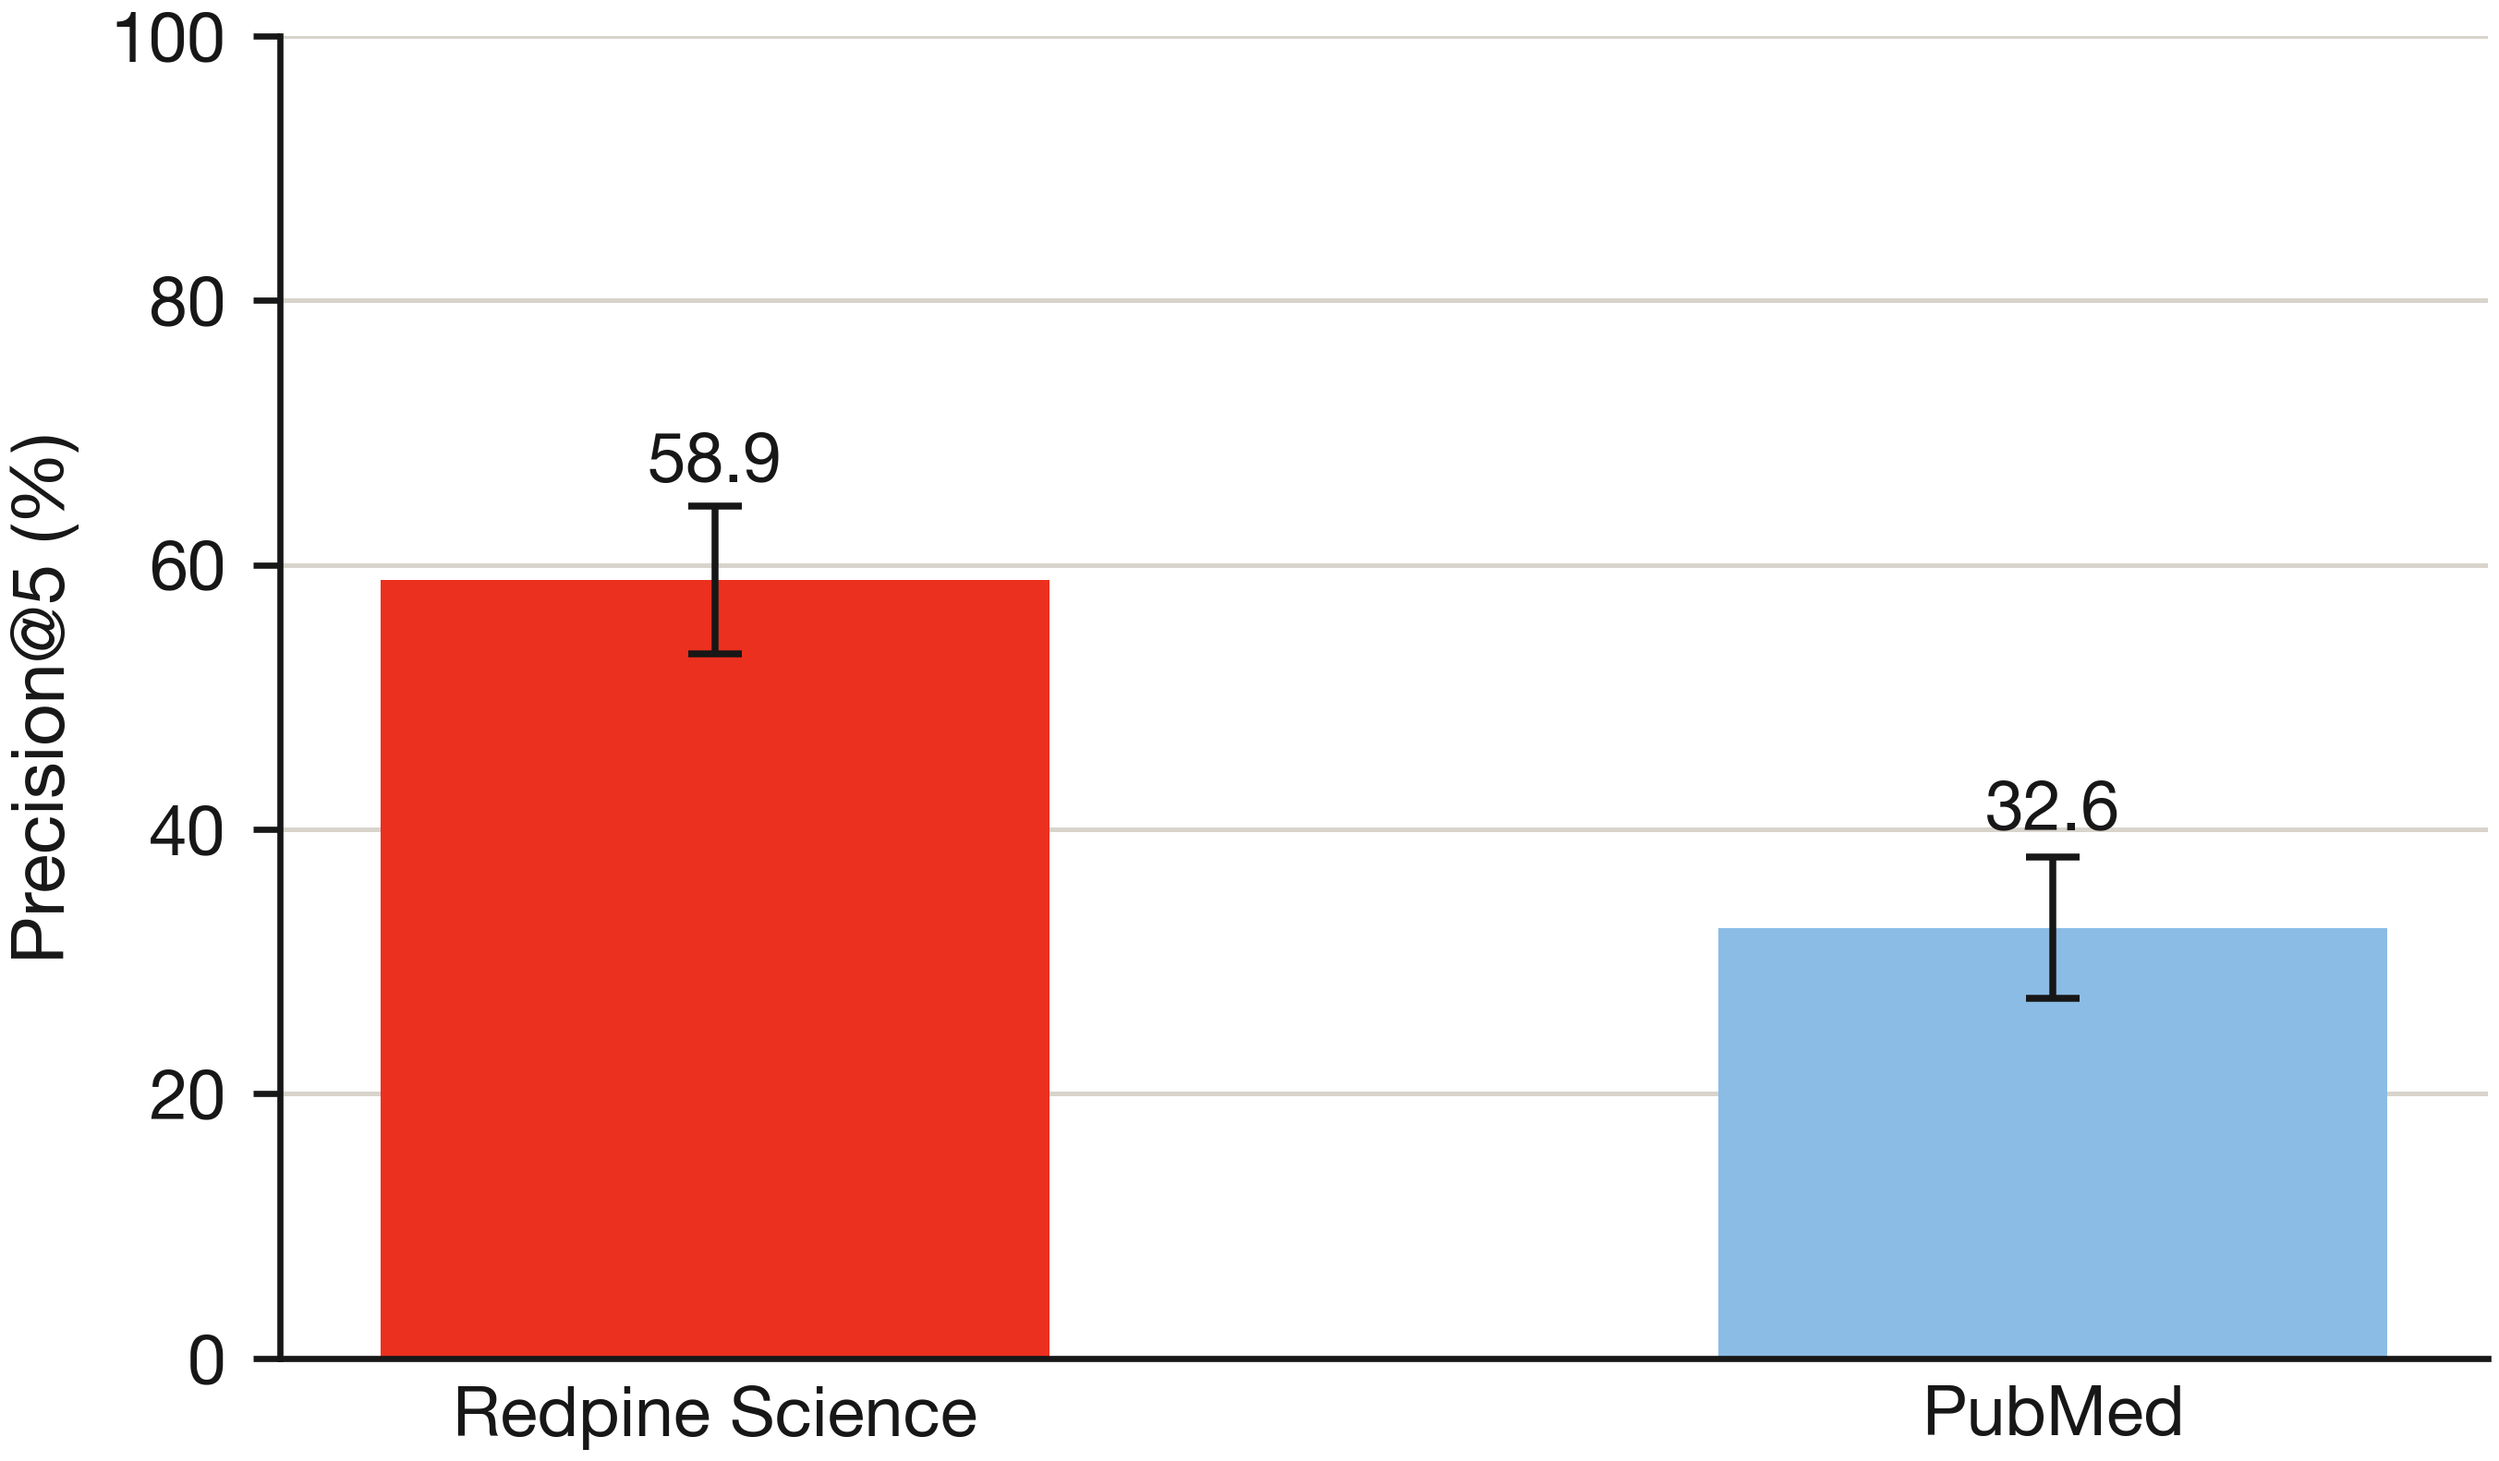
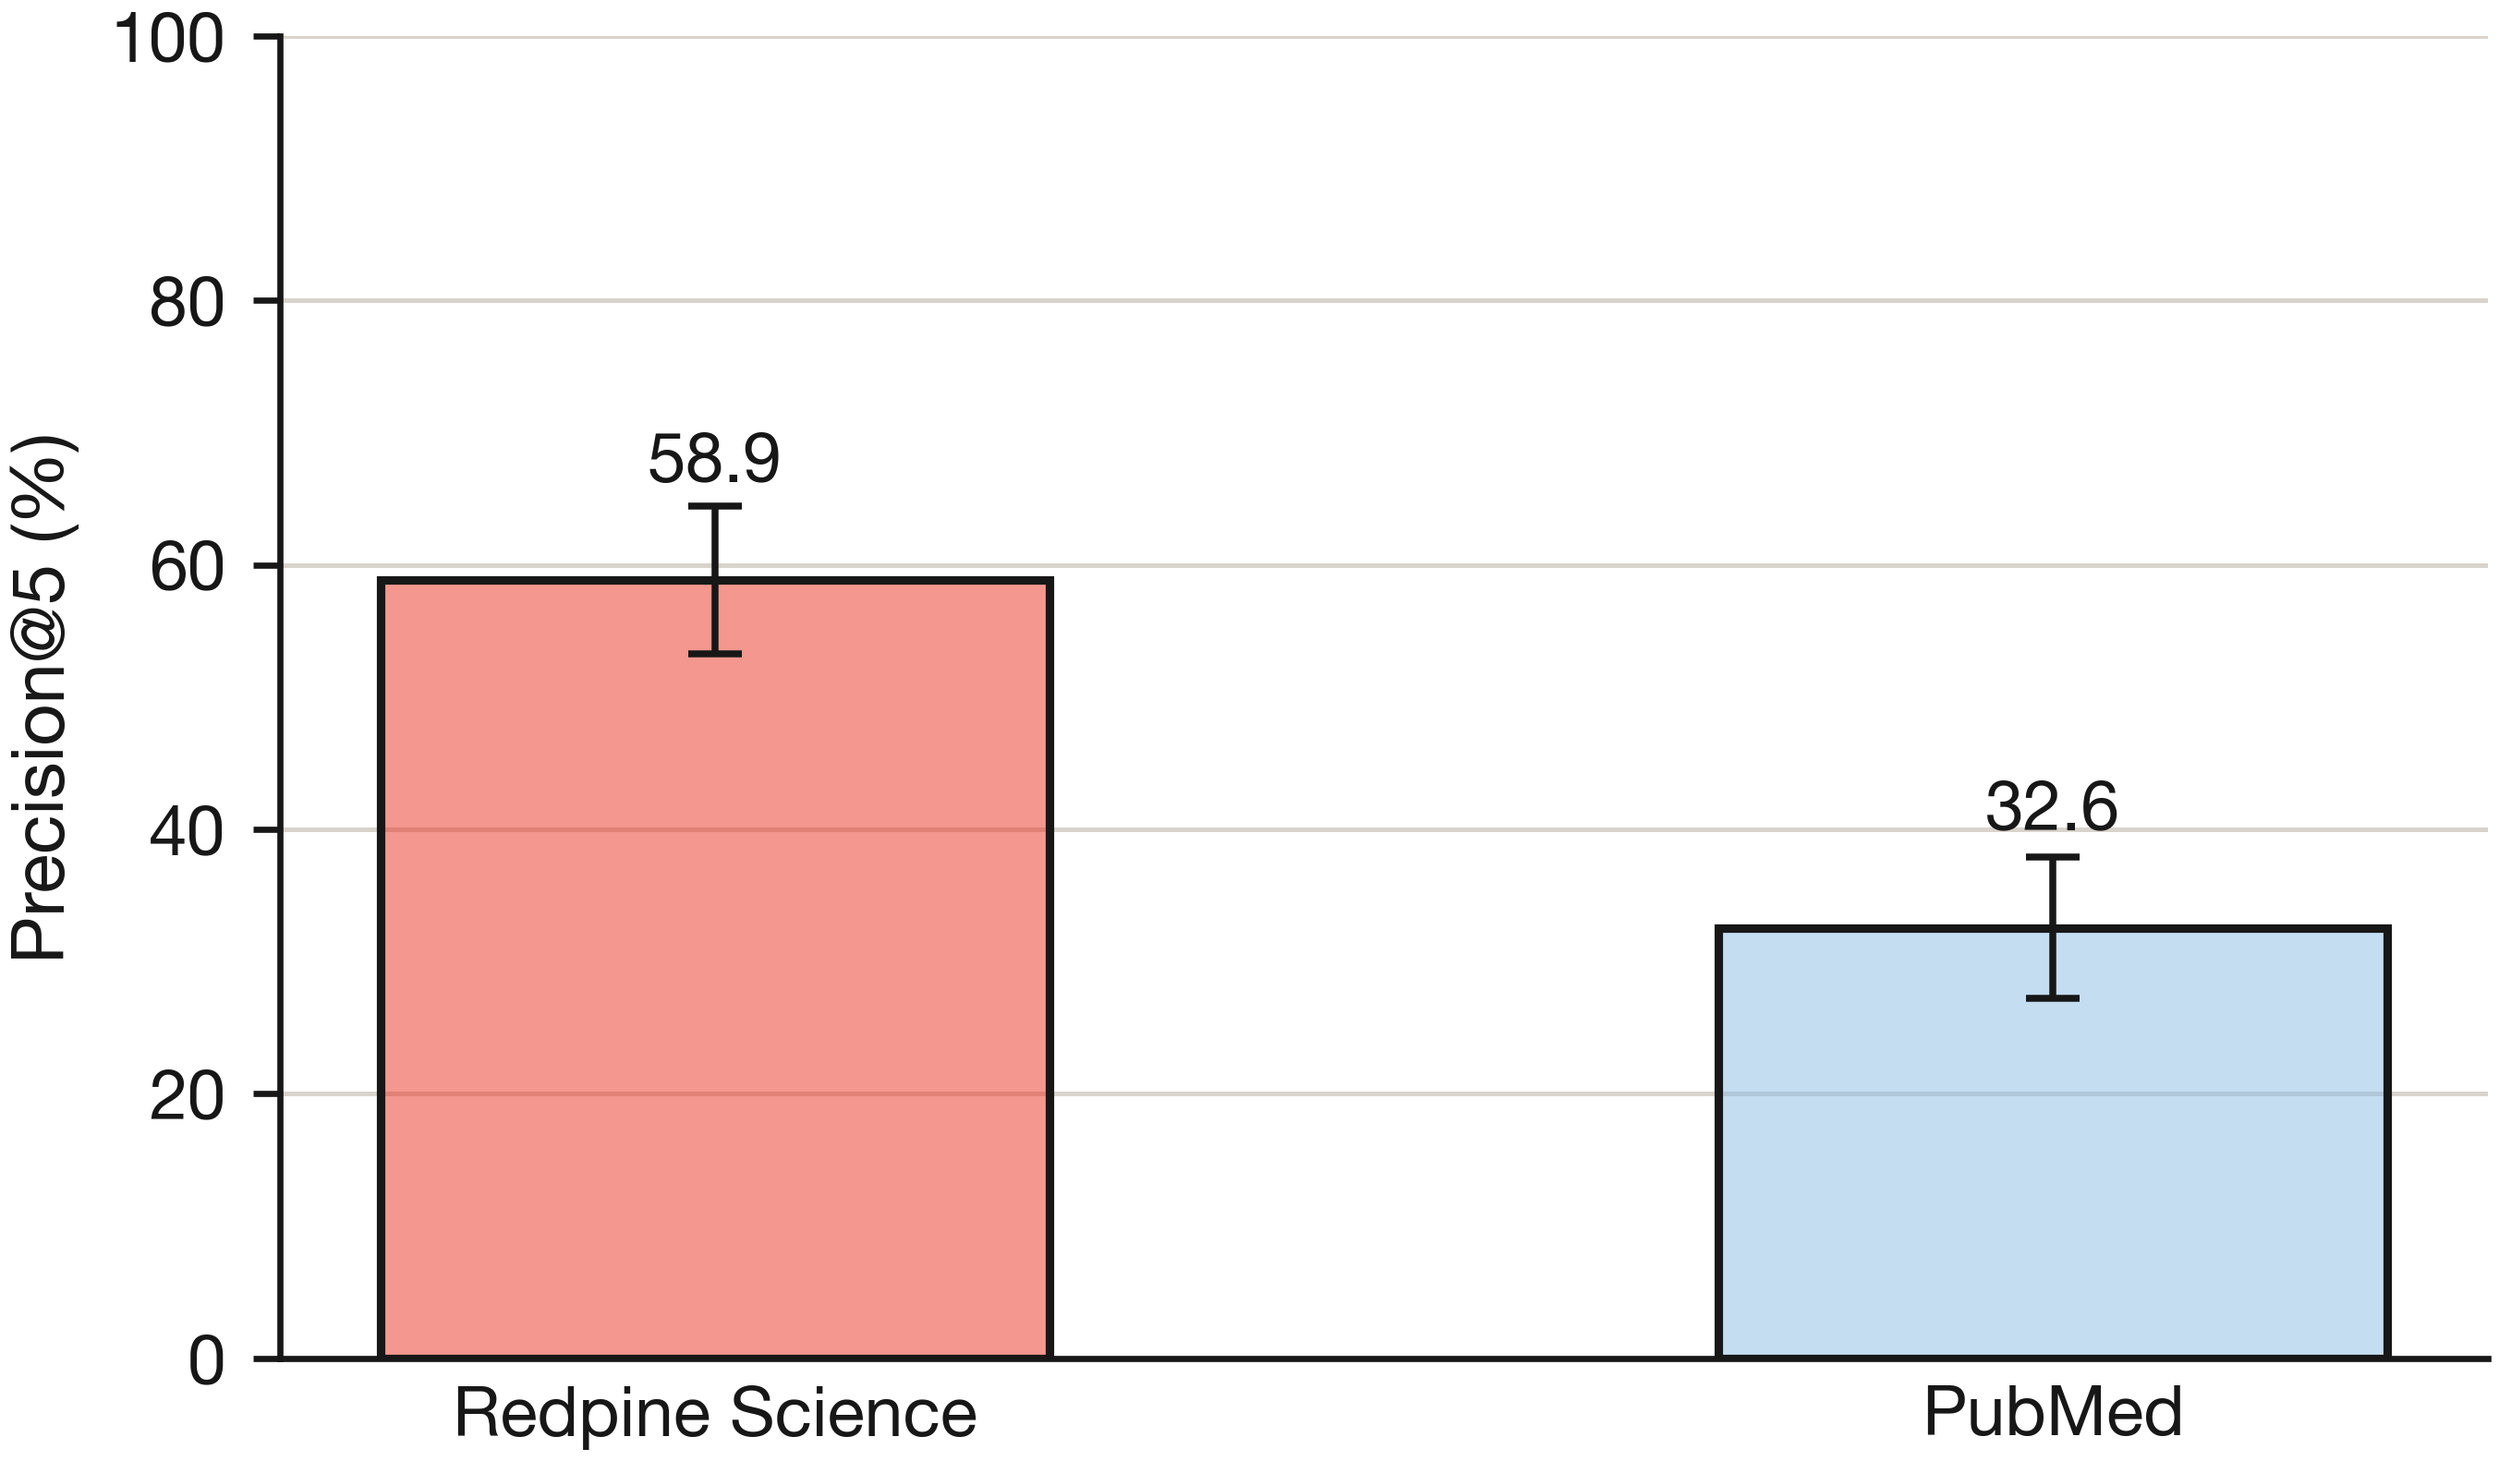
style(figures): translucent bar fills with a solid black border
Add bar_style() to redpine_style.py: brand colour at alpha 0.5 for
the fill, DARK_GREY at full opacity for the border. Bakes the alpha
into the facecolor (via matplotlib.colors.to_rgba) rather than
passing alpha= to ax.bar itself, since that would fade the border to
match the fill instead of keeping it crisp.

Apply it in all three bar figures (fig_scifact_arms.py,
fig_quadrant3_recall.py, fig_quadrant4_precision.py) and regenerate
their PDFs/PNGs -- all headline numbers unchanged, verified against
each script's own stdout. Legend swatches pick up the same
facecolor/edgecolor/linewidth automatically. Documented in
figures/README.md's conventions list.

Changed region(s): [[0.1242, 0.3717, 0.4348, 0.9292], [0.6832, 0.6195, 0.9627, 0.9292]]

diff --git a/figures/redpine_style.py b/figures/redpine_style.py
@@ -21,11 +21,15 @@ Plotting conventions, which are not brand rules but are why the figures read wel
     the axis
   * error bars are drawn only where they mean something, and the caption must
     say what they are
+  * bars are a translucent block of colour (alpha 0.5) with a solid, fully
+    opaque border, via bar_style() -- never a bare `alpha=` on ax.bar itself,
+    which would fade the border to match the fill
 """
 
 from pathlib import Path
 
 import matplotlib as mpl
+import matplotlib.colors as mcolors
 import matplotlib.pyplot as plt
 
 # === Palette ================================================================
@@ -85,6 +89,14 @@ BASE_PT = 9      # tick labels and value labels
 LABEL_PT = 9.5   # axis labels
 SMALL_PT = 8     # footnotes inside the axes, legend entries
 
+# === Bars ====================================================================
+# Every bar is a translucent block of its brand colour with a solid, fully
+# opaque border, so two bars are told apart by outline as well as by fill, and
+# the fill never overpowers the value label sitting on top of it.
+BAR_ALPHA = 0.5
+BAR_EDGECOLOR = DARK_GREY
+BAR_LINEWIDTH = 1.1
+
 
 def apply_style():
     """Set the rcParams for every figure in the report. Call once per script."""
@@ -142,6 +154,21 @@ def apply_style():
 def figure(width_in=TEXT_WIDTH_IN, height_in=DEFAULT_HEIGHT_IN):
     """A figure sized to the document's text block."""
     return plt.subplots(figsize=(width_in, height_in))
+
+
+def bar_style(colors, alpha=BAR_ALPHA, edgecolor=BAR_EDGECOLOR, linewidth=BAR_LINEWIDTH):
+    """Kwargs for ax.bar(): translucent brand-colour fill, solid opaque border.
+
+    Pass a single colour or a list, one per bar. Bakes the alpha into the
+    facecolor rather than passing ax.bar's own `alpha=` kwarg, which would
+    fade the border to the same translucency as the fill instead of keeping
+    it crisp.
+    """
+    if isinstance(colors, str):
+        facecolor = mcolors.to_rgba(colors, alpha=alpha)
+    else:
+        facecolor = [mcolors.to_rgba(c, alpha=alpha) for c in colors]
+    return dict(facecolor=facecolor, edgecolor=edgecolor, linewidth=linewidth)
 
 
 def label_bars(ax, bars, values, fmt="{:.1f}", offset=0.9, color=DARK_GREY):

diff --git a/figures/fig_quadrant3_recall.py b/figures/fig_quadrant3_recall.py
@@ -29,7 +29,7 @@ from pathlib import Path
 sys.path.insert(0, str(Path(__file__).resolve().parent))
 
 from redpine_style import (  # noqa: E402
-    ARM_COLORS, apply_style, figure, label_bars, save,
+    ARM_COLORS, apply_style, bar_style, figure, label_bars, save,
 )
 
 OUT = Path(__file__).resolve().parent / "quadrant3_recall"
@@ -67,7 +67,7 @@ def main():
         x = [c + offset for c in centers]
         bars = ax.bar(
             x, RECALL[system], width=BAR_WIDTH,
-            color=ARM_COLORS[system], label=LABELS[system], zorder=2,
+            **bar_style(ARM_COLORS[system]), label=LABELS[system], zorder=2,
         )
         label_bars(ax, bars, RECALL[system], offset=1.0)
 

diff --git a/figures/fig_quadrant4_precision.py b/figures/fig_quadrant4_precision.py
@@ -36,7 +36,7 @@ from pathlib import Path
 sys.path.insert(0, str(Path(__file__).resolve().parent))
 
 from redpine_style import (  # noqa: E402
-    ARM_COLORS, DARK_GREY, apply_style, figure, label_bars, save,
+    ARM_COLORS, DARK_GREY, apply_style, bar_style, figure, label_bars, save,
 )
 
 OUT = Path(__file__).resolve().parent / "quadrant4_precision"
@@ -74,7 +74,7 @@ def main():
     x = range(len(ORDER))
     bars = ax.bar(
         x, values, width=0.5,
-        color=[ARM_COLORS[s] for s in ORDER], zorder=2,
+        **bar_style([ARM_COLORS[s] for s in ORDER]), zorder=2,
     )
     ax.errorbar(
         x, values, yerr=errors, fmt="none",

diff --git a/figures/fig_scifact_arms.py b/figures/fig_scifact_arms.py
@@ -27,7 +27,7 @@ from pathlib import Path
 sys.path.insert(0, str(Path(__file__).resolve().parent))
 
 from redpine_style import (  # noqa: E402
-    ARM_COLORS, DARK_GREY, apply_style, figure, label_bars, save,
+    ARM_COLORS, DARK_GREY, apply_style, bar_style, figure, label_bars, save,
 )
 
 OUT = Path(__file__).resolve().parent / "scifact_arms"
@@ -74,7 +74,7 @@ def main():
     x = range(len(ORDER))
     bars = ax.bar(
         x, means, width=0.62,
-        color=[ARM_COLORS[arm] for arm in ORDER],
+        **bar_style([ARM_COLORS[arm] for arm in ORDER]),
         zorder=2,
     )
     ax.errorbar(

diff --git a/figures/README.md b/figures/README.md
@@ -55,6 +55,10 @@ These are deliberate, and a new figure should not quietly break them.
 - **Bars start at zero.** A truncated axis turns a 6.6 point gap into a visual
   doubling, and this report's whole argument is that the numbers are modest and
   real.
+- **Bars are translucent (alpha 0.5) with a solid, fully opaque border**, via
+  `bar_style()` in `redpine_style.py`. Never pass a bare `alpha=` to `ax.bar`
+  itself — that fades the border to match the fill instead of keeping it
+  crisp against the fill and the gridlines behind it.
 - **No title inside the figure.** The caption is the title, and it is numbered,
   referenced, and editable without regenerating a PDF.
 - **No headline number inside the figure**, for the same reason.
@@ -71,4 +75,6 @@ These are deliberate, and a new figure should not quietly break them.
 
 Copy `fig_scifact_arms.py`, keep the module-level docstring naming where the
 numbers came from (log filenames, branch, and what was excluded), and import
-the style module rather than setting any rcParam locally.
+the style module rather than setting any rcParam locally. For bars, pass
+`**bar_style(color)` (or a list of colours) to `ax.bar()` rather than a bare
+`color=` kwarg, so the fill/border convention above stays in one place.
